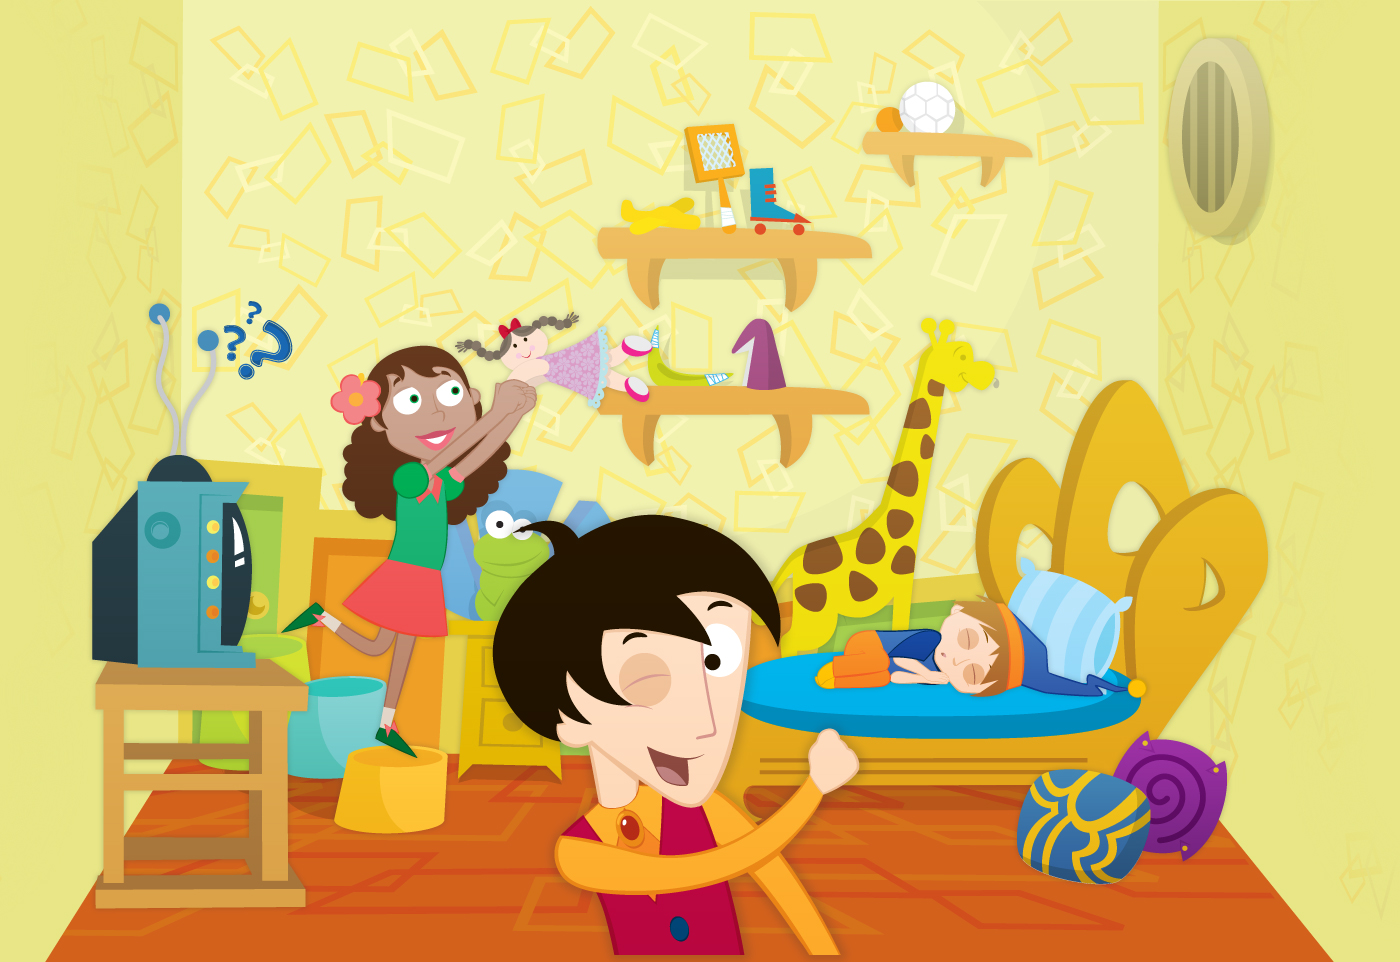
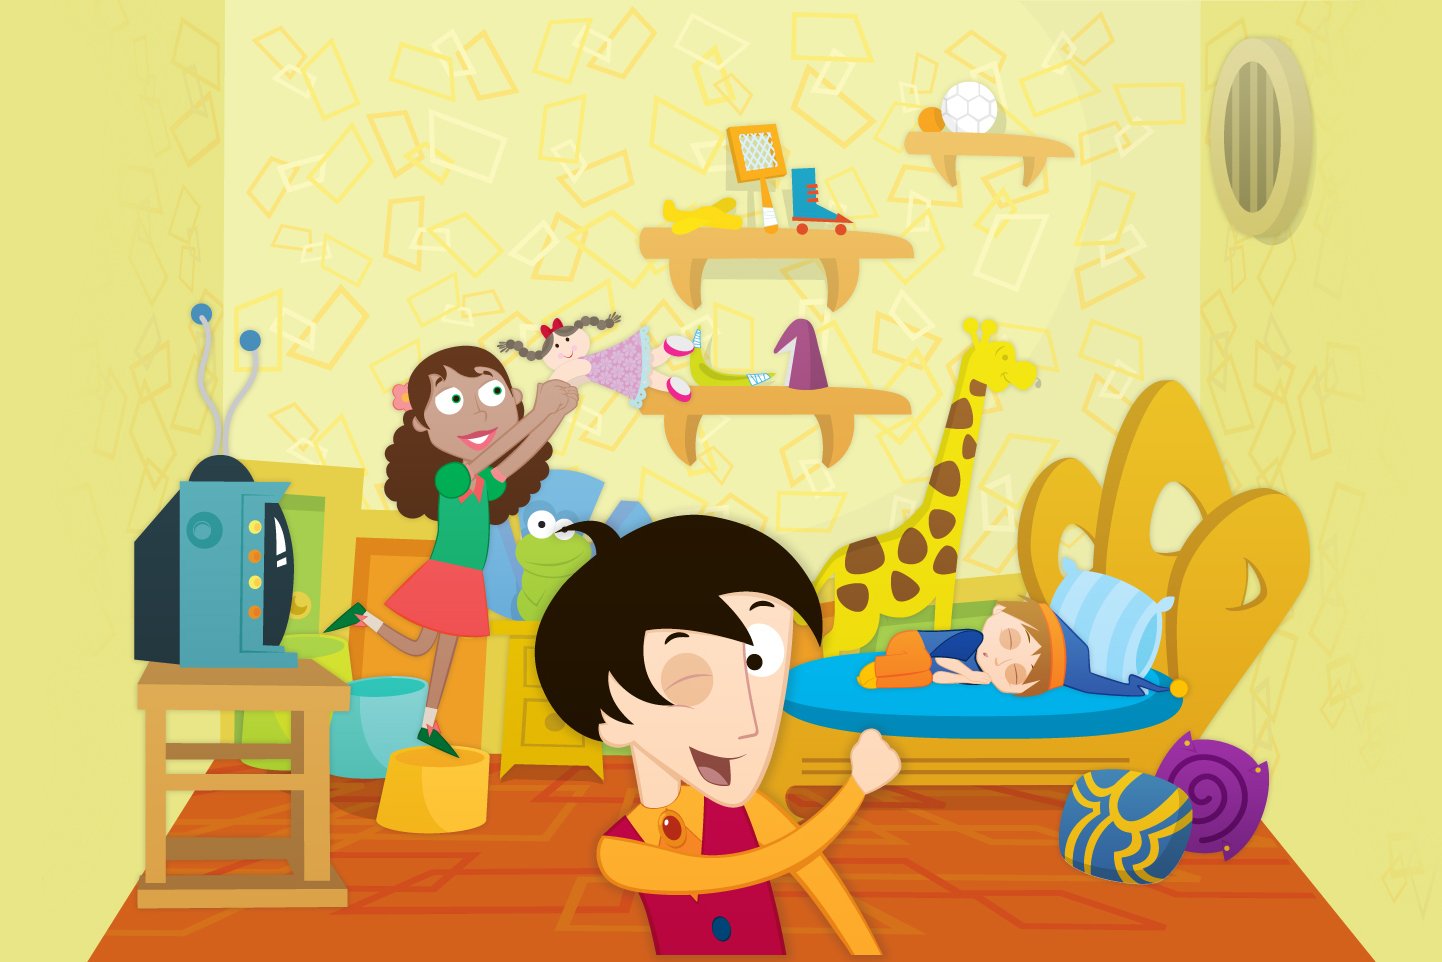
q nino

diff --git a/web/portal/css/tvcultura/sites/castelo/nino.css b/web/portal/css/tvcultura/sites/castelo/nino.css
@@ -4,14 +4,14 @@ body { background:#e8e687; min-height: 970px; }
 #capa-site { *height:993px; }
 .tudo { height:680px; }
 
-.botao-nino {z-index:0; cursor:pointer ; width:287px; height:293px; position:absolute; top:224px; right:425px; background: url(/portal/images/capaPrograma/castelo/gif-nino-pisca.gif) no-repeat 125px 138px;}
+.botao-nino {z-index:0; cursor:pointer ; width:287px; height:293px; position:absolute; top:224px; right:425px; background: url(/portal/images/capaPrograma/castelo/gif-nino-pisca.gif) no-repeat  146px 139px;}
 .botao-nino-over {z-index:1;width:442px; height:524px;position:absolute;top: 141px; right: 296px;background: url(/portal/images/capaPrograma/castelo/img-personagem-nino.png) no-repeat;}
 
 .botao-zeca {z-index:0;cursor:pointer ;width:232px; height:170px;position:absolute;top:243px; right:157px;background: url(/portal/images/capaPrograma/castelo/gif-personagem-zeca.gif) no-repeat 103px 0;}
 .botao-zeca-over {z-index:1;width:297px; height:325px;position:absolute;bottom:146px;right:111px;background: url(/portal/images/capaPrograma/castelo/img-personagem-zeca-over.png) no-repeat;}
 
-.botao-biba {z-index:0;cursor:pointer ;width:152px; height:413px;position:absolute;top: 54px;left: 137px;background: url(/portal/images/capaPrograma/castelo/gif-personagem-biba.gif) no-repeat -12px 19px;}
-.botao-biba-over {z-index:1;width:396px; height:526px;position:absolute;top:-45px; left:96px; background: url(/portal/images/capaPrograma/castelo/img-personagem-biba-over.png) no-repeat;}
+.botao-biba {z-index:0;cursor:pointer ;width:152px; height:413px;position:absolute;top: 54px;left: 137px;background: url(/portal/images/capaPrograma/castelo/gif-personagem-biba.gif) no-repeat  14px 17px;}
+.botao-biba-over {z-index:1;width:396px; height:526px;position:absolute;top:-44px; left:97px; background: url(/portal/images/capaPrograma/castelo/img-personagem-biba-over.png) no-repeat;}
 
 .botao-telekid {z-index:0;cursor:pointer ;width:121px; height:104px;position:absolute;top: 0; left: 0;background: url(/portal/images/capaPrograma/castelo/gif-telekid.gif) no-repeat;}
 .botao-telekid-over {z-index:1;width:220px; height:297px;position:absolute;top: 0; left:0; background: url(/portal/images/capaPrograma/castelo/telekid-over.png) no-repeat;}
